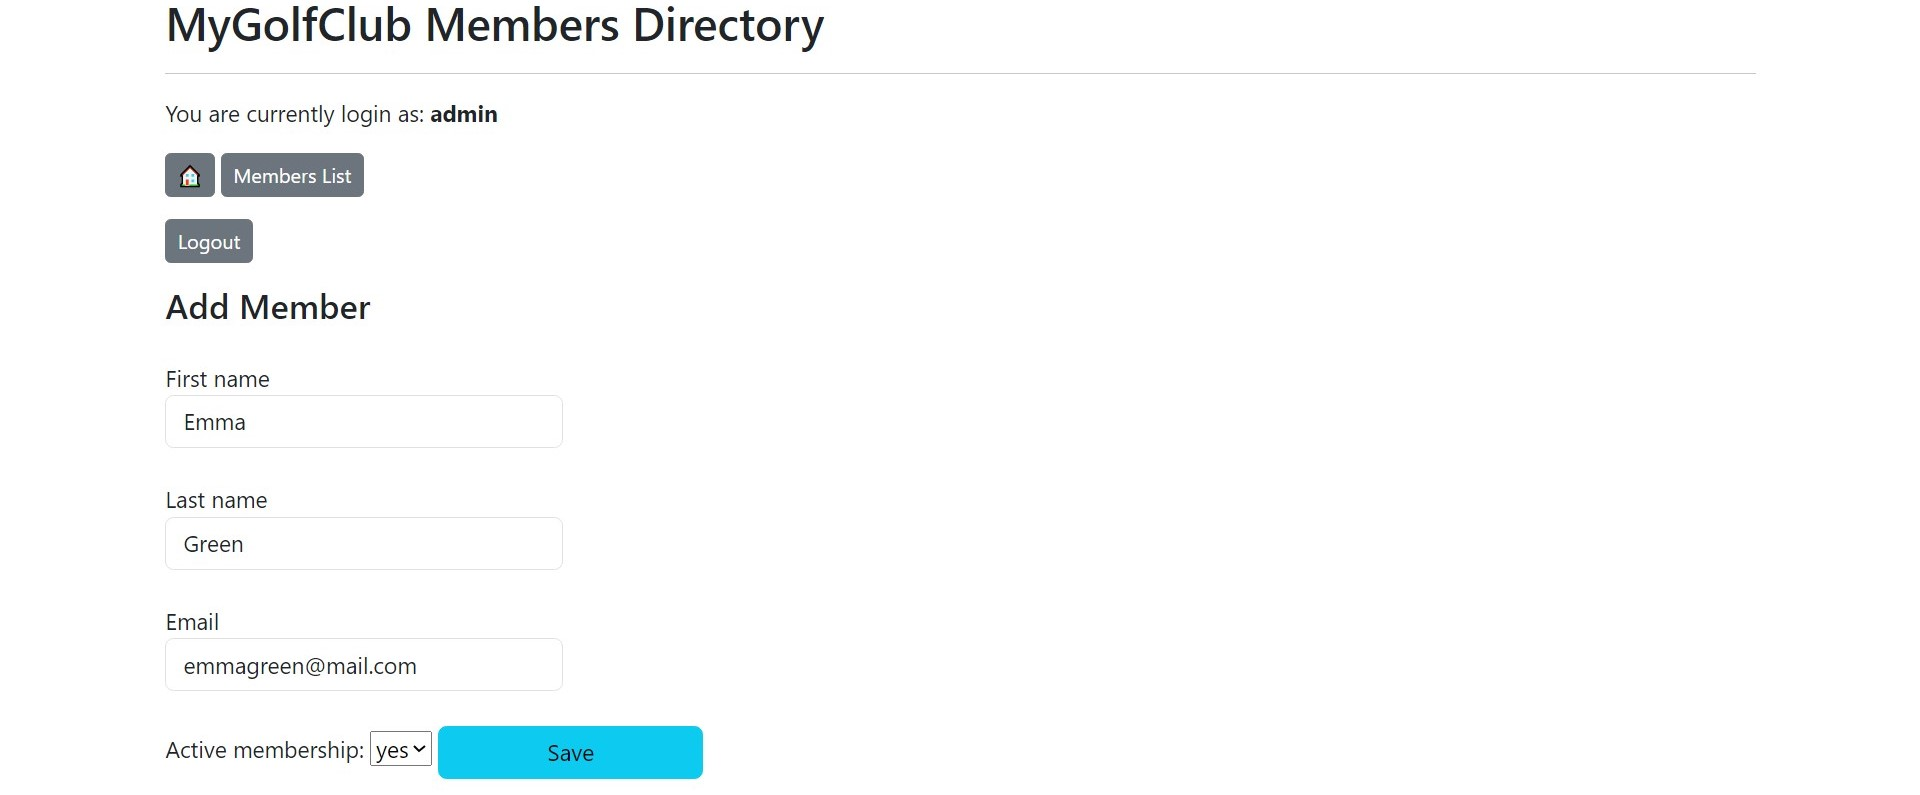
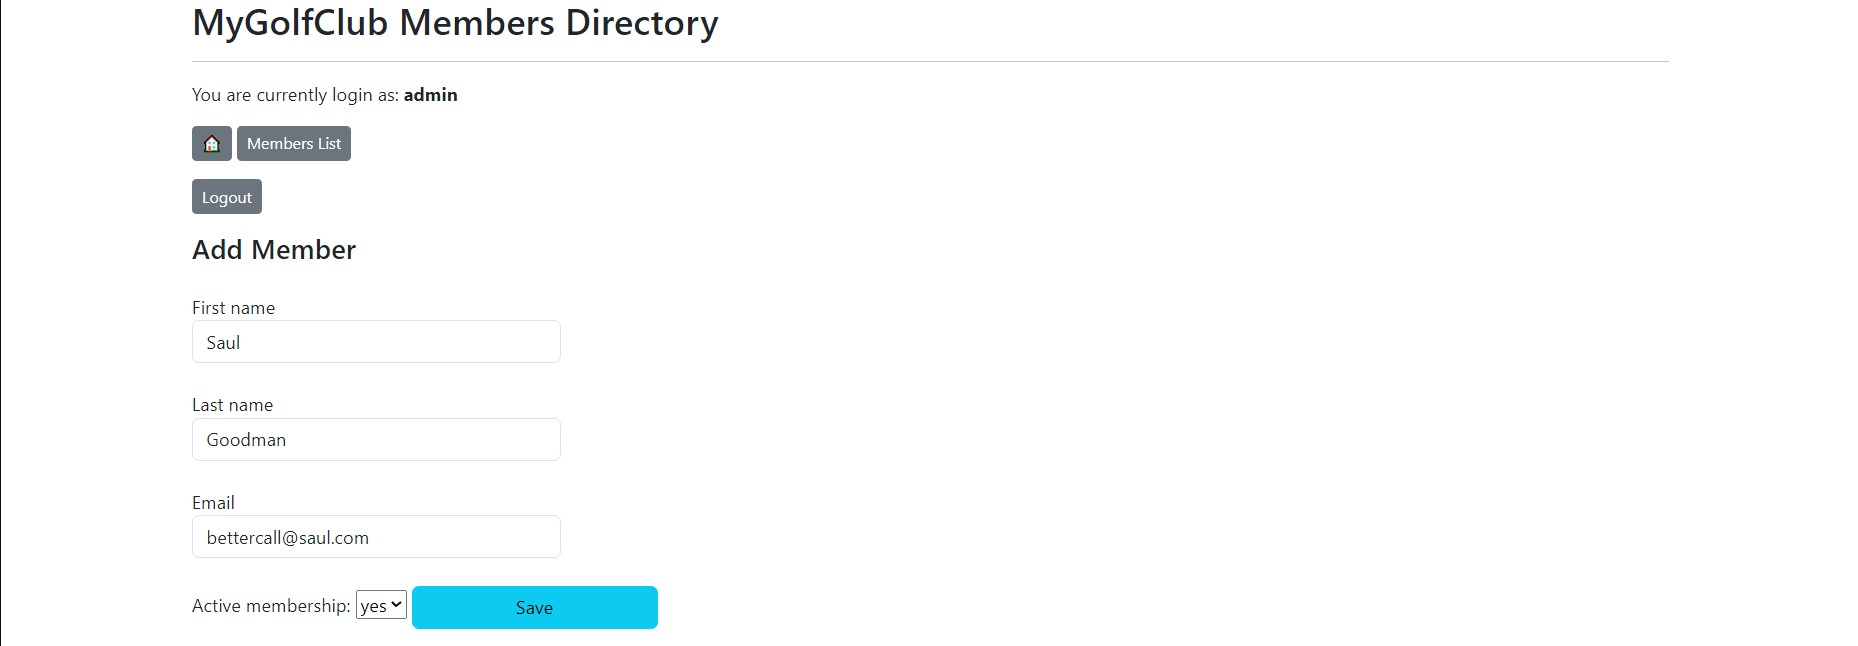
Resolved TODO case member update success.

diff --git a/README.md b/README.md
@@ -79,7 +79,7 @@ Read further for more details.
    2. [x] ~~Admin~~
 
 
-3. [ ] TODO: Add a screenshot for a case when member was successfully modified by admin.
+3. [x] ~~TODO: Add a screenshot for a case when member was successfully modified by admin.~~
 
 
 4. [ ] TODO: Add a screenshot for a case when member was successfully removed by admin.
@@ -770,11 +770,15 @@ Following cases have to be followed:
 
 ### Admin - Update Member
 
+`/my-golf-club/members/list`
+
+![Image contains how to update member when logged as admin.](./screenshots/Auth/ROLE_ADMIN/UPDATE-MEMBER/%5BA%5D_update-member-click-here.jpg "Update Member - Button")
+
 #### Admin - Update Member Form
 
-`/my-golf-club/members/update?memberId=1`
+`/my-golf-club/members/update?memberId=6`
 
-![Image contains update member page when logged as admin.](./screenshots/Auth/ROLE_ADMIN/UPDATE-MEMBER/%5BA%5D_update-member.jpg "Update Member")
+![Image contains update member page when logged as admin.](./screenshots/Auth/ROLE_ADMIN/UPDATE-MEMBER/%5BA%5D_update-member.jpg "Update Member - Form")
 
 <div align='right'>
     <a href="#screenshots">Go back to the screenshots cases</a>
@@ -784,7 +788,15 @@ Following cases have to be followed:
 
 #### Admin - Update Member Success
 
-_// TODO: images here_
+![Image contains filled update member page with a new data when logged as admin.](./screenshots/Auth/ROLE_ADMIN/UPDATE-MEMBER/%5BA%5D_update-member-filled.jpg "Update Member - New Data")
+
+`/my-golf-club/members/list`
+
+![Image contains members list page after member update success when logged as admin.](./screenshots/Auth/ROLE_ADMIN/UPDATE-MEMBER/%5BA%5D_update-member-members-list.jpg "Update Member - Members List")
+
+`/my-golf-club/members/list/active`
+
+![Image contains active members list page after member update success when logged as admin.](./screenshots/Auth/ROLE_ADMIN/UPDATE-MEMBER/%5BA%5D_update-member-active-members-list.jpg "Update Member - Active Members List")
 
 <div align='right'>
     <a href="#screenshots">Go back to the screenshots cases</a>
